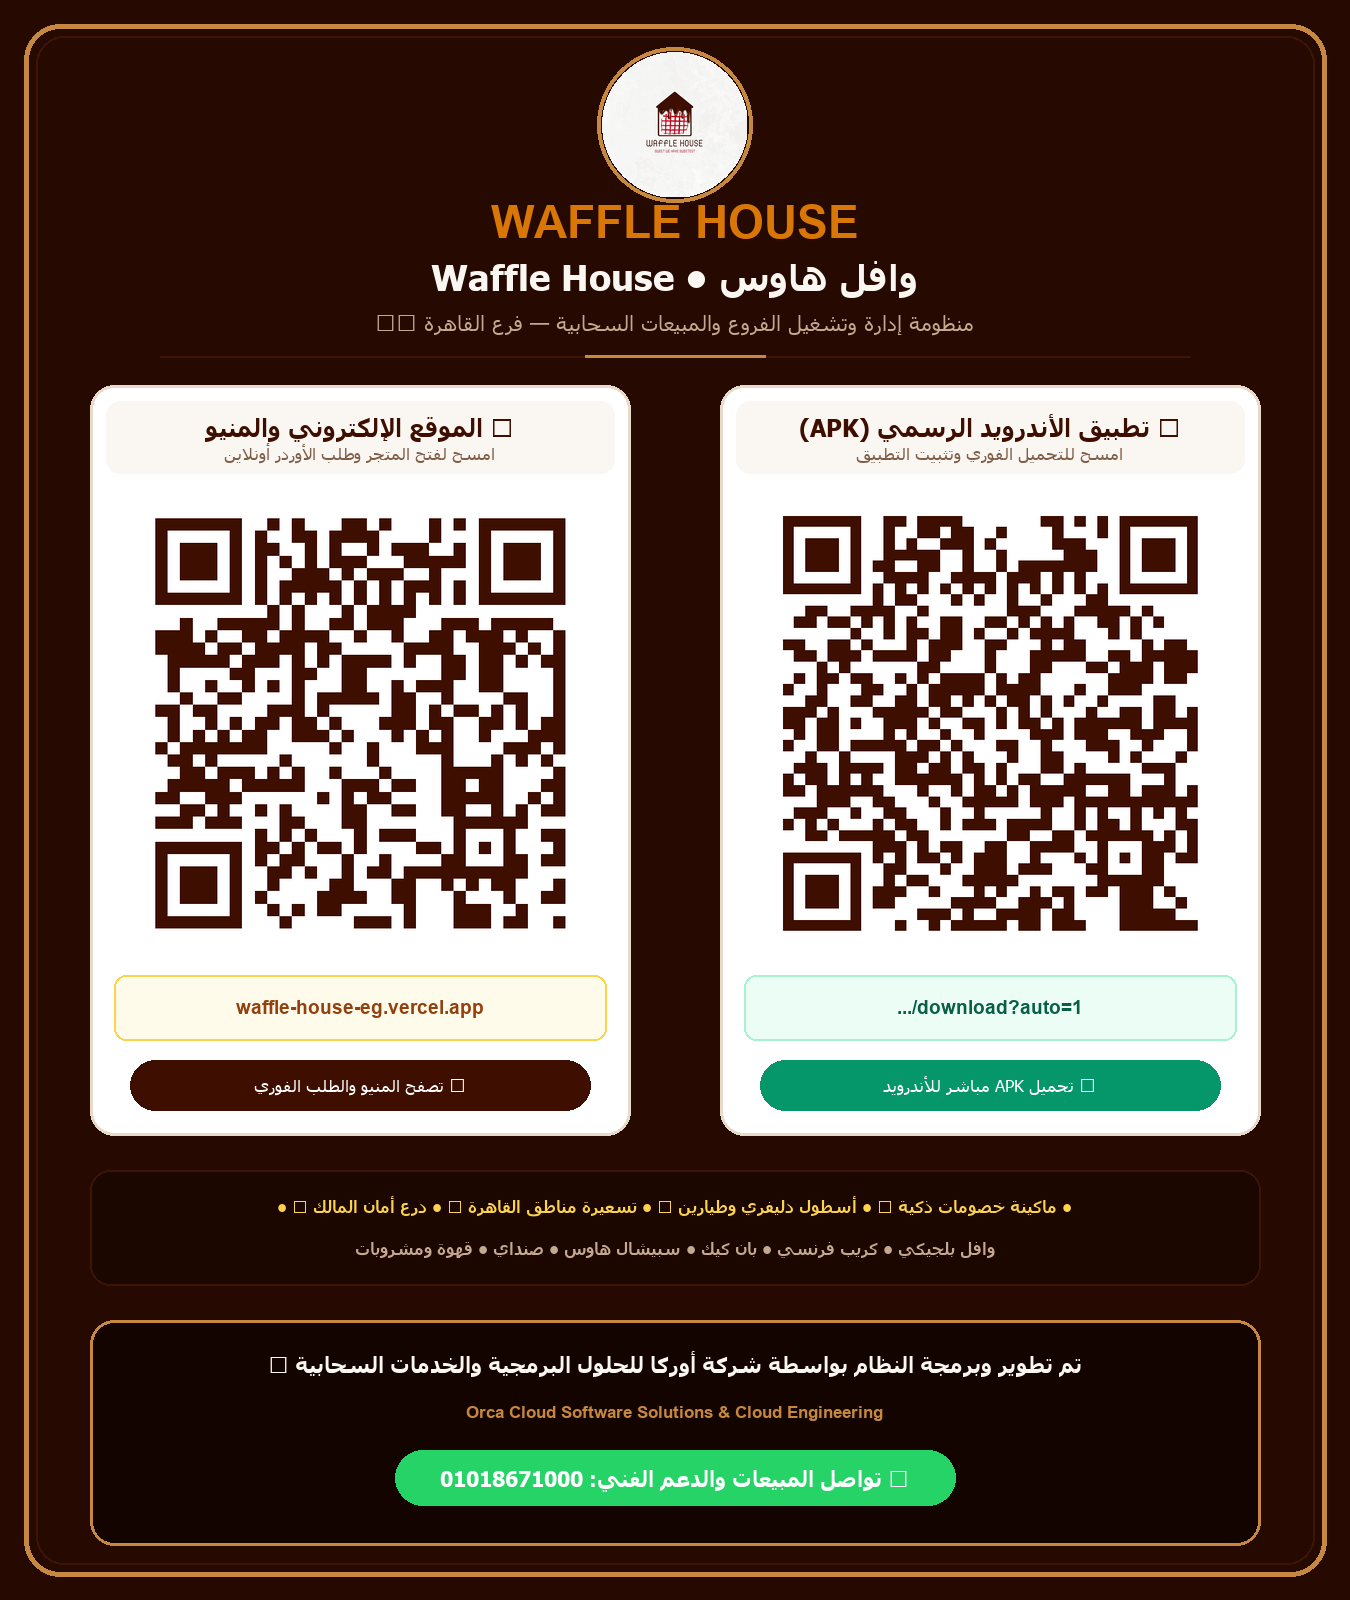
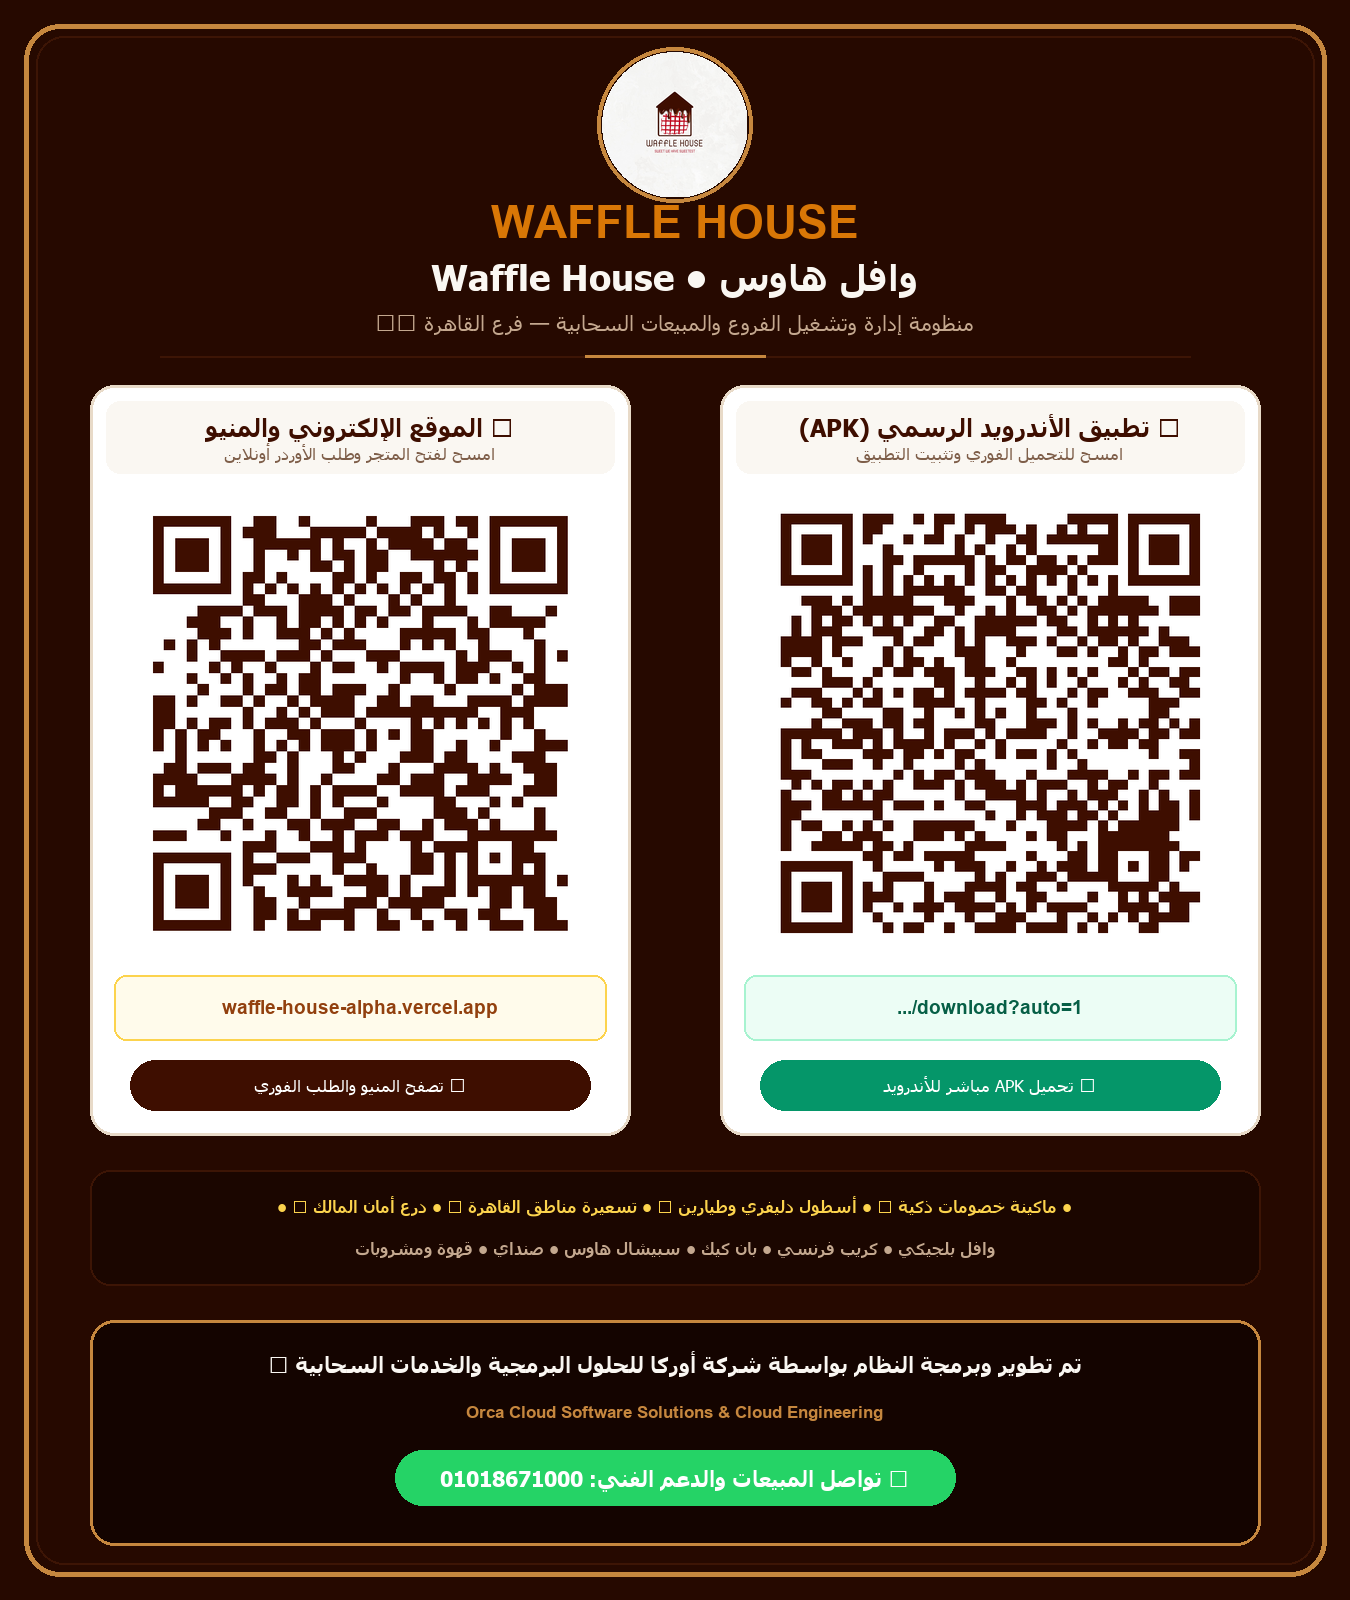
chore: update live Vercel domain to waffle-house-alpha.vercel.app and refresh master QR card

Changed region(s): [[0.0933, 0.3125, 0.4356, 0.5938], [0.56, 0.3125, 0.9022, 0.5938], [0.1556, 0.625, 0.3733, 0.6562]]

diff --git a/capacitor.config.ts b/capacitor.config.ts
@@ -5,7 +5,7 @@ const config: CapacitorConfig = {
   appName: 'Waffle House',
   webDir: 'public',
   server: {
-    url: 'https://waffle-house-eg.vercel.app',
+    url: 'https://waffle-house-alpha.vercel.app',
     cleartext: true,
   },
   android: {
